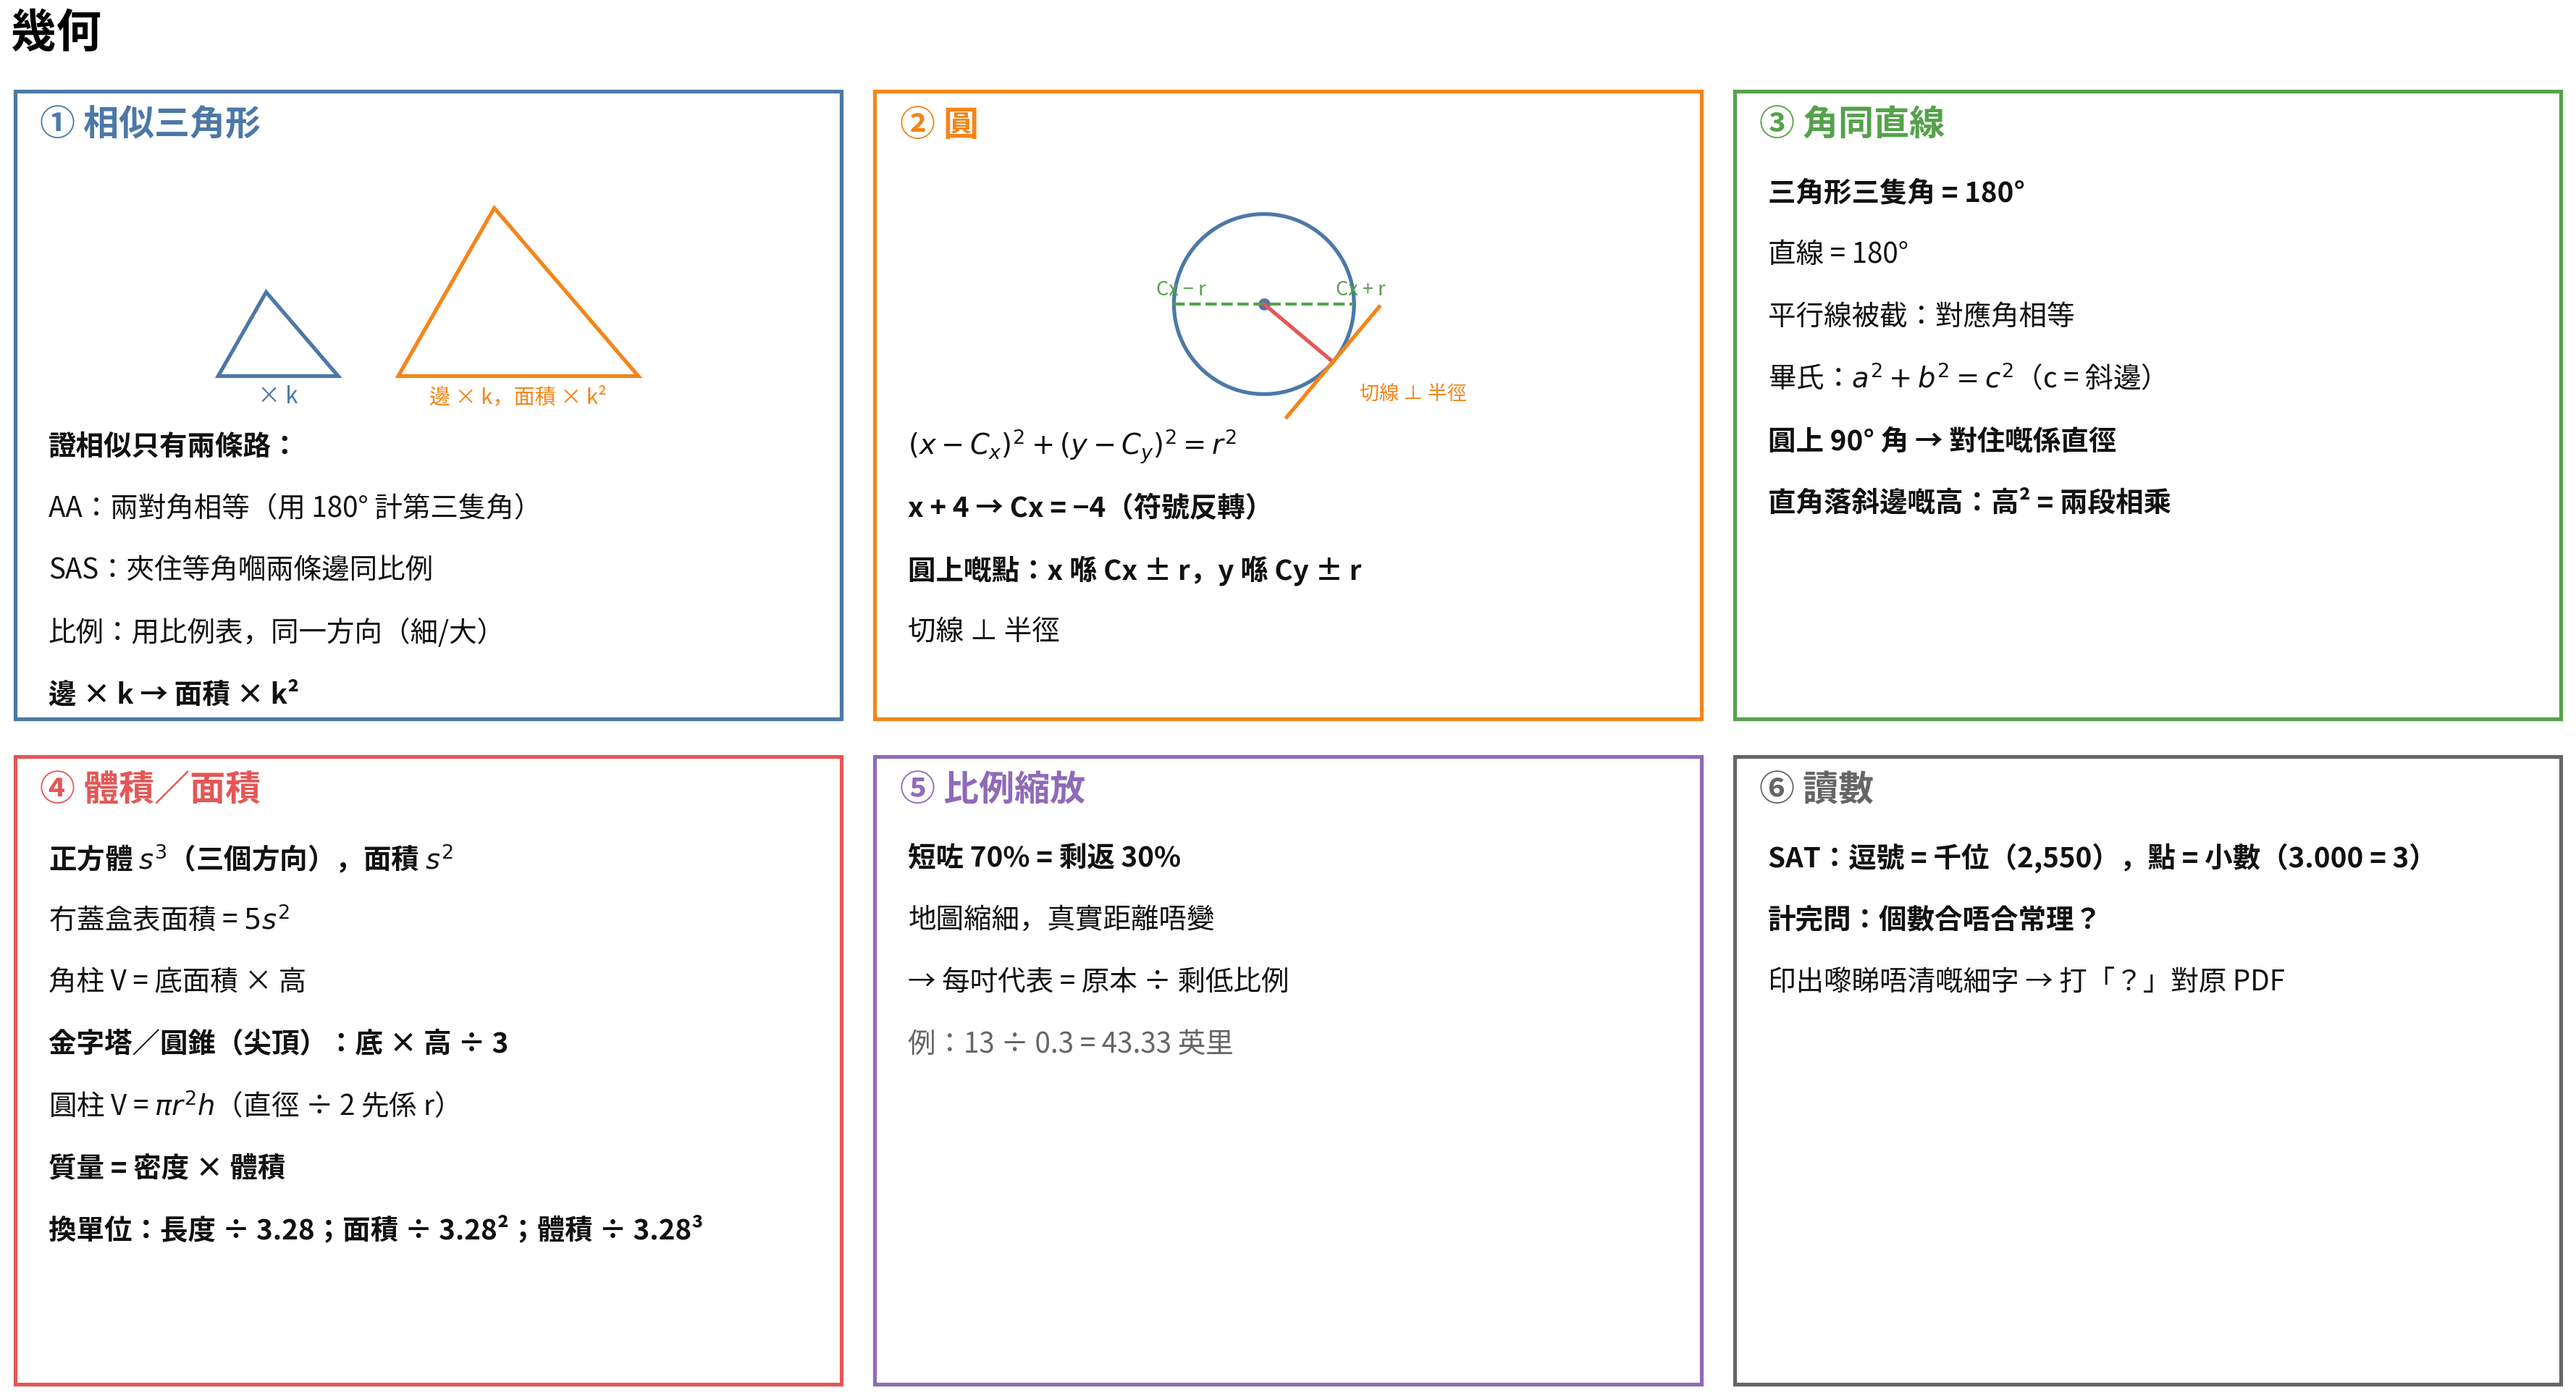
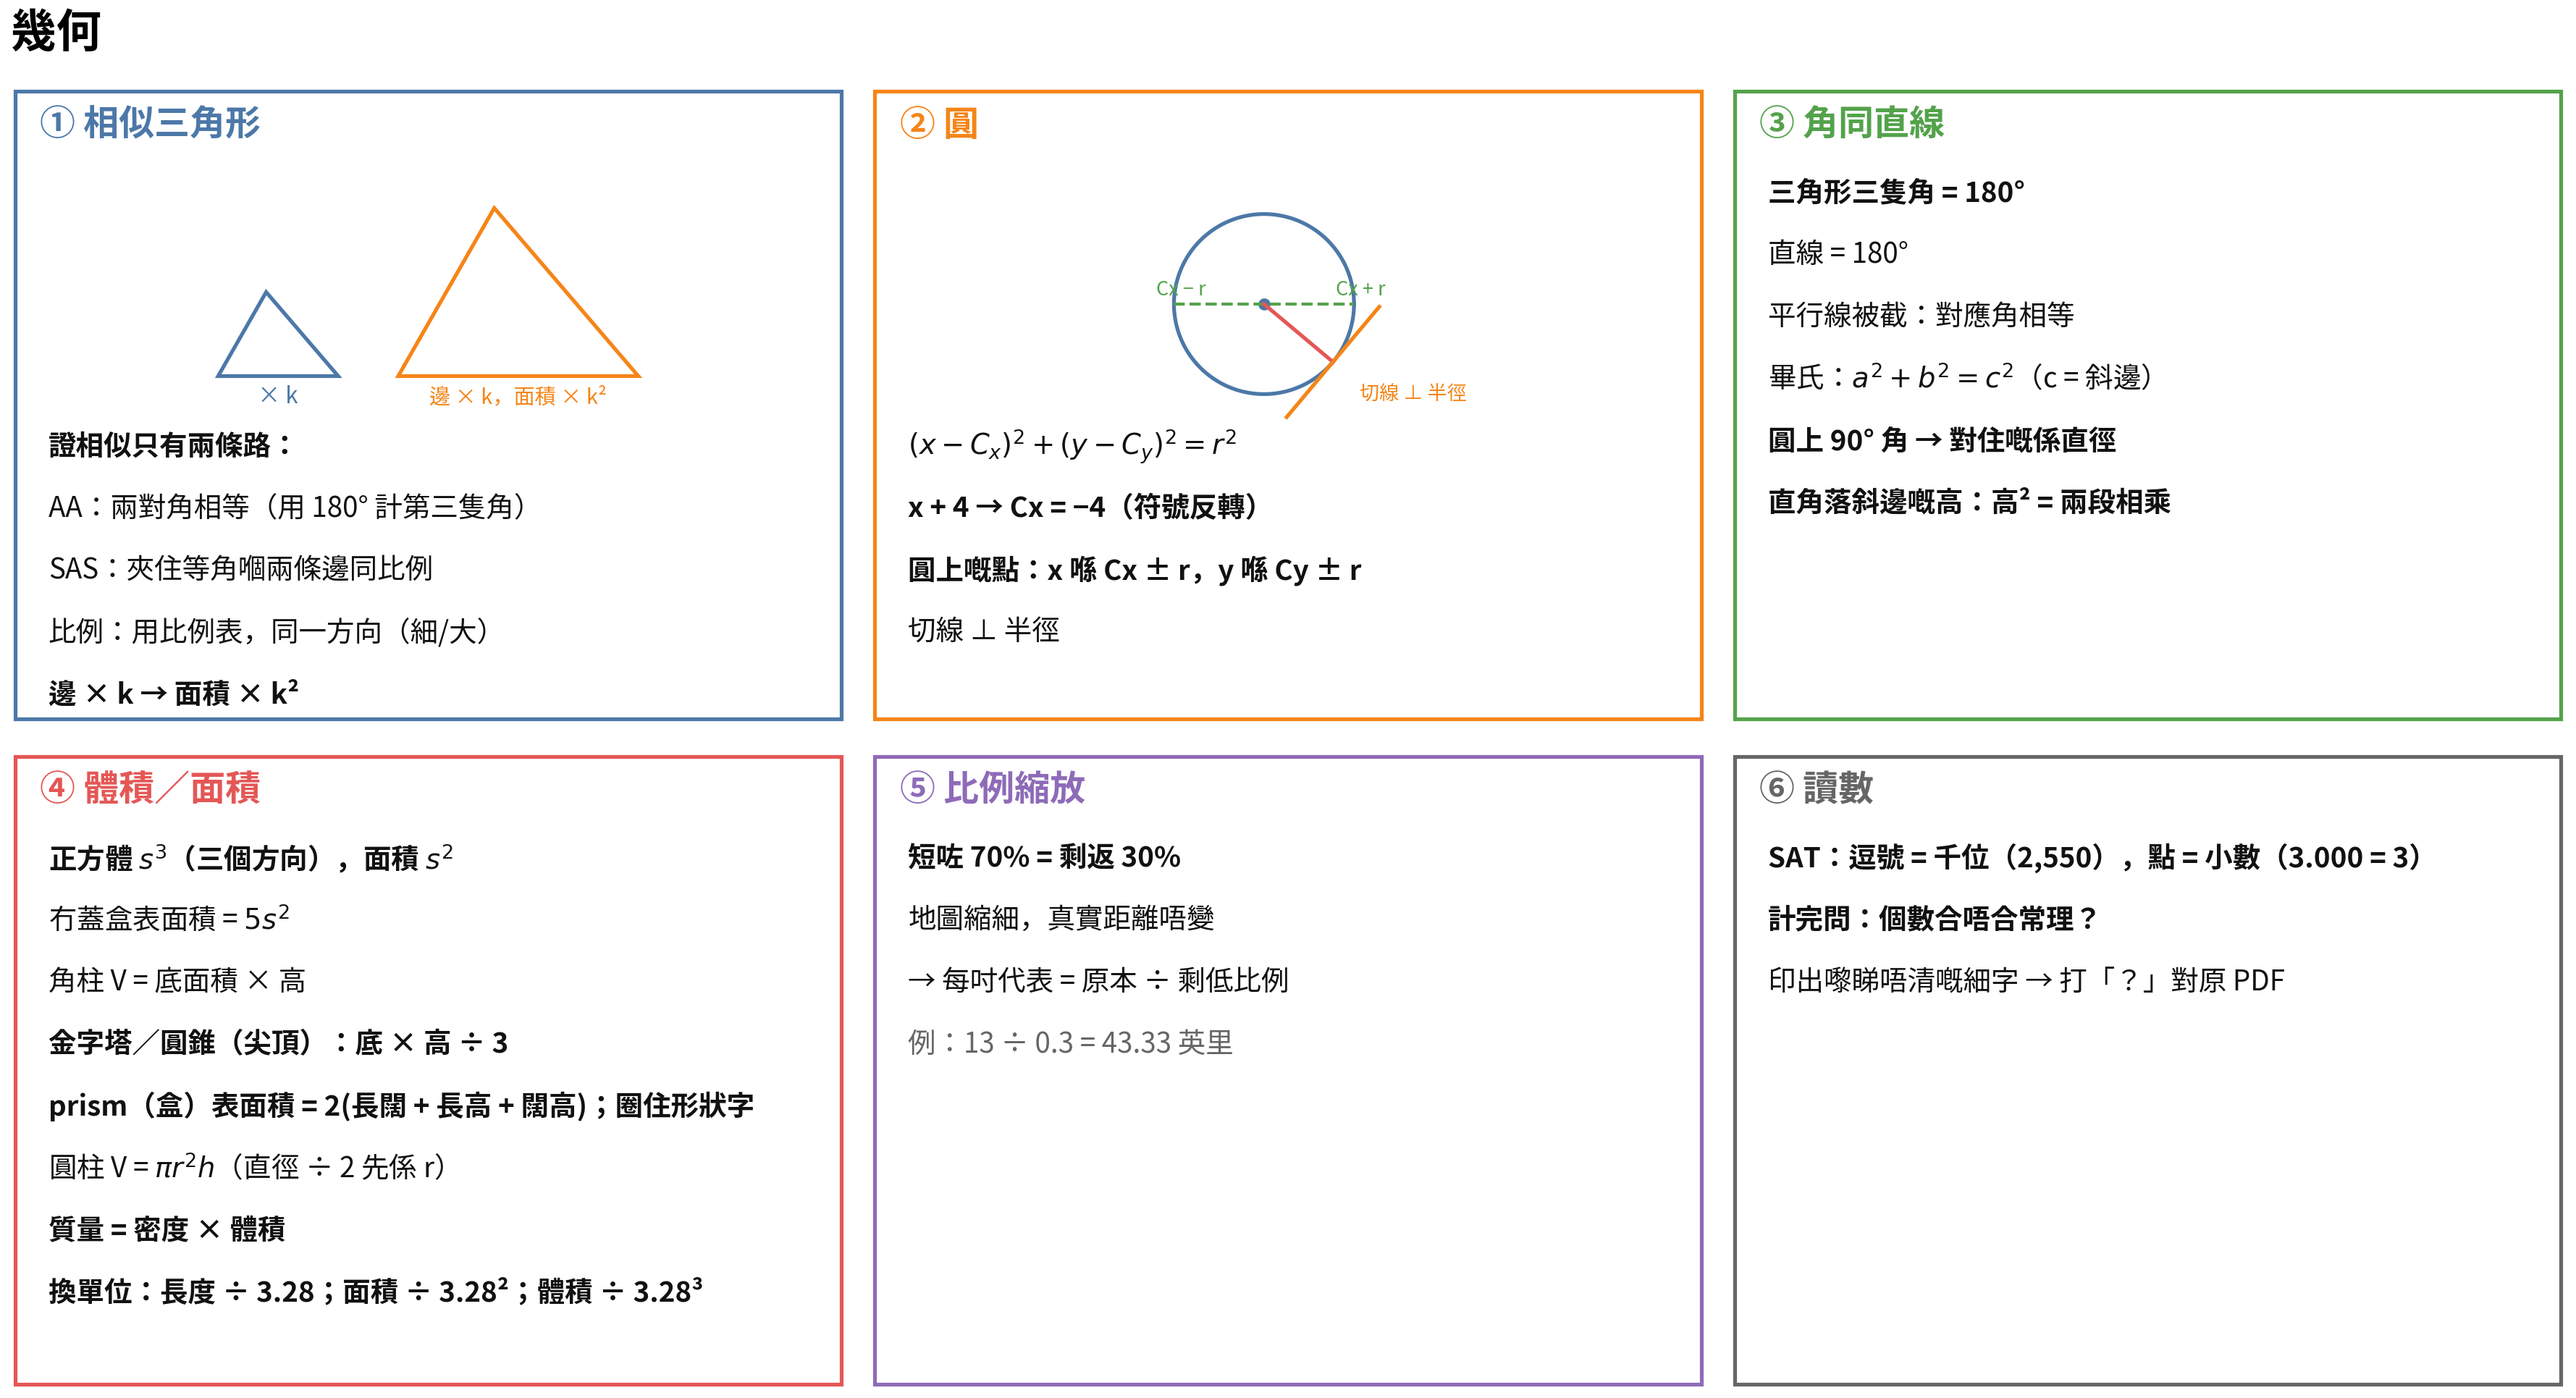
Add 2024-10 NA-C figures
Claude-Session: https://claude.ai/code/session_01FjvCsFJGnDJLmDkKiSommn

Changed region(s): [[0.0, 0.87, 0.2808, 0.9322], [0.0, 0.7768, 0.312, 0.8389]]

diff --git a/index.html b/index.html
@@ -1030,7 +1030,7 @@
           </picture>
         </a>
         <details>
-          <summary>例題圖（10 張，撳開先睇）</summary>
+          <summary>例題圖（11 張，撳開先睇）</summary>
           <div class="examples">
             <figure>
               <a href="assets/fig/quadratic-forms.png"><img src="assets/fig/quadratic-forms.png" alt="二次 3 款寫法" loading="lazy"></a>
@@ -1059,6 +1059,10 @@
             <figure>
               <a href="assets/fig/q27-new-curve.png"><img src="assets/fig/q27-new-curve.png" alt="代入 = 第二條線；expand 唔會變線" loading="lazy"></a>
               <figcaption><strong>PT5 M1 Q27</strong>：代入 = 第二條線；expand 唔會變線</figcaption>
+            </figure>
+            <figure>
+              <a href="assets/fig/na2410c-m2q14-factor.png"><img src="assets/fig/na2410c-m2q14-factor.png" alt="抽兩次公因數再逐個括號 = 0" loading="lazy"></a>
+              <figcaption><strong>2024-10 北美C M2 Q14</strong>：抽兩次公因數再逐個括號 = 0</figcaption>
             </figure>
             <figure>
               <a href="assets/fig/m2q24-discriminant.png"><img src="assets/fig/m2q24-discriminant.png" alt="冇實數解：先刪 a、c 一正一負" loading="lazy"></a>
@@ -1195,7 +1199,7 @@
           </picture>
         </a>
         <details>
-          <summary>例題圖（8 張，撳開先睇）</summary>
+          <summary>例題圖（9 張，撳開先睇）</summary>
           <div class="examples">
             <figure>
               <a href="assets/fig/m2q19-similar.png"><img src="assets/fig/m2q19-similar.png" alt="證相似：AA 或 SAS" loading="lazy"></a>
@@ -1208,6 +1212,10 @@
             <figure>
               <a href="assets/fig/na2509-m1q7-pyramid.png"><img src="assets/fig/na2509-m1q7-pyramid.png" alt="金字塔／圓錐體積 = 底 × 高 ÷ 3" loading="lazy"></a>
               <figcaption><strong>2025-09 北美A M1 Q7</strong>：金字塔／圓錐體積 = 底 × 高 ÷ 3</figcaption>
+            </figure>
+            <figure>
+              <a href="assets/fig/na2410c-m2q22-prism.png"><img src="assets/fig/na2410c-m2q22-prism.png" alt="prism 係盒：表面積 6 面" loading="lazy"></a>
+              <figcaption><strong>2024-10 北美C M2 Q22</strong>：prism 係盒：表面積 6 面</figcaption>
             </figure>
             <figure>
               <a href="assets/fig/na2509-m2q21-units.png"><img src="assets/fig/na2509-m2q21-units.png" alt="單位鏈：面積要除 3.28 兩次" loading="lazy"></a>

diff --git a/tools/build_topic_site.py b/tools/build_topic_site.py
@@ -43,6 +43,7 @@ TOPICS = [
         ("apacc-q19-move-to-zero.png", "亞太C M1 Q19", "右邊唔係 0 → 先全部搬去一邊"),
         ("q27-methods.png", "PT5 M1 Q27", "g(7 − w) = 0 → 7 − w 係紅點"),
         ("q27-new-curve.png", "PT5 M1 Q27", "代入 = 第二條線；expand 唔會變線"),
+        ("na2410c-m2q14-factor.png", "2024-10 北美C M2 Q14", "抽兩次公因數再逐個括號 = 0"),
         ("m2q24-discriminant.png", "PT5 M2 Q24", "冇實數解：先刪 a、c 一正一負"),
         ("m2q18-line-parabola.png", "亞太C M2 Q18", "直線同拋物線交點數 = b² − 4ac"),
         ("na2410-m1q11-vertex.png", "2024-10 北美A M1 Q11", "最高 → 頂點式；開口向下 a 一定負")]),
@@ -72,6 +73,7 @@ TOPICS = [
         ("m2q19-similar.png", "亞太C M2 Q19", "證相似：AA 或 SAS"),
         ("m2q17-map.png", "亞太C M2 Q17", "地圖縮細 70%：剩 30%，每吋代表多啲"),
         ("na2509-m1q7-pyramid.png", "2025-09 北美A M1 Q7", "金字塔／圓錐體積 = 底 × 高 ÷ 3"),
+        ("na2410c-m2q22-prism.png", "2024-10 北美C M2 Q22", "prism 係盒：表面積 6 面"),
         ("na2509-m2q21-units.png", "2025-09 北美A M2 Q21", "單位鏈：面積要除 3.28 兩次"),
         ("na2410-m2q22-why-diameter.png", "2024-10 北美A M2 Q22", "B 有直角記號 → AC 係直徑"),
         ("na2410-m2q22-picture.png", "2024-10 北美A M2 Q22", "橙色正方形 = 藍色長方形"),
